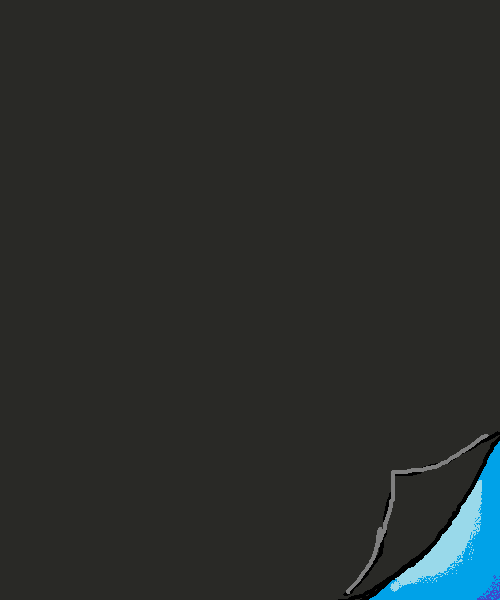
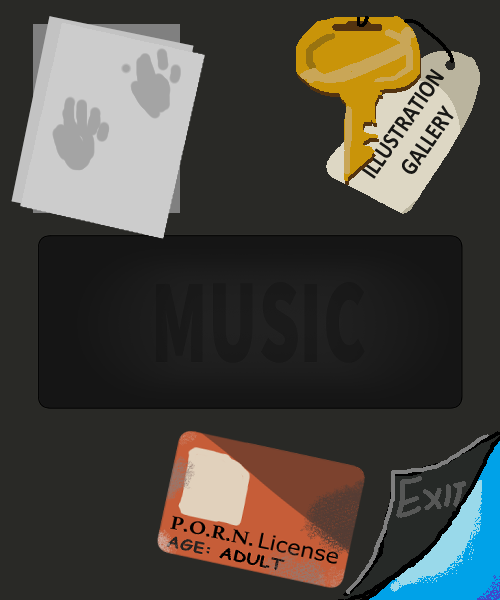
new homepage

diff --git a/index.html b/index.html
@@ -27,6 +27,7 @@
     a.ex3 {color:white;background-color:darkgreen;font-size:2rem;text-decoration:none;}
     h6:hover, h6:active {color:green}
     h6 {color:#cacaca;}
+
 	<!--cursor button zones-->
 #free
 	<!--cursor code-->
@@ -40,7 +41,7 @@
                               <!--Audio-->
   <div align="right">
     <h6>"Cold Memory" by Yonk Raccoon</h6>
-   <audio controls loop id="cold memory.mp3">
+   <audio style="max-width:100%" controls loop id="cold memory.mp3">
   <source src="sounds/BGM/cold memory.mp3" type="audio/mpeg"></audio>
 <script>
     var audio = document.getElementById("cold memory.mp3");
@@ -71,11 +72,22 @@
                               <!--Navigation-->
  <br>
  <center>
-	<img src="images/navigation.png" usemap="#workmap">
+	<img style="max-width:100%" src="images/navi.png" usemap="#workmap" id="musicnav">
 
 	<map name="workmap">
+	    <!--script for the mouseover music image change-->
+	<script>
+function musicOver() {
+  document.getElementById("musicnav").src="images/navi music.png";
+}
+
+function musicOut() {
+  document.getElementById("musicnav").src="images/navi.png";
+}
+</script>
+	
 		<area shape="rect" coords="0,0,149,52" alt="journals" href="journals/journals.html">
-		<area color="black" shape="rect" coords="74,124,167,239" alt="music" href="music/music.html">
+		<area color="black" shape="rect" coords="40,238,461,410" alt="music" href="music/music.html" onmouseover="musicOver()" onmouseout="musicOut()">
 		<area shape="rect" coords="64,406,169,606" alt="illustration" href="illustration/illustration.html">
 	</map>
   </center>
@@ -132,14 +144,10 @@
                 }
       </script><br>
       
-    <img width="40%" src="images/stickers/quest loop.png">
-
-        <!--link-->
-      <p> <a style="background-color:purple;color:white;" href="IMAGE">EMPTY LINK</a> </p>
 </center>
     
     <br> <!--Text blurb-->
-    <p> This site is a placeholder until Yonk's projects are done and he learns advanced HTML. </p>
+    <p> This site's first phase is still in development. :3 Thanks for visiting. </p>
 
 
 <footer style="background-color:#050505"><center>
